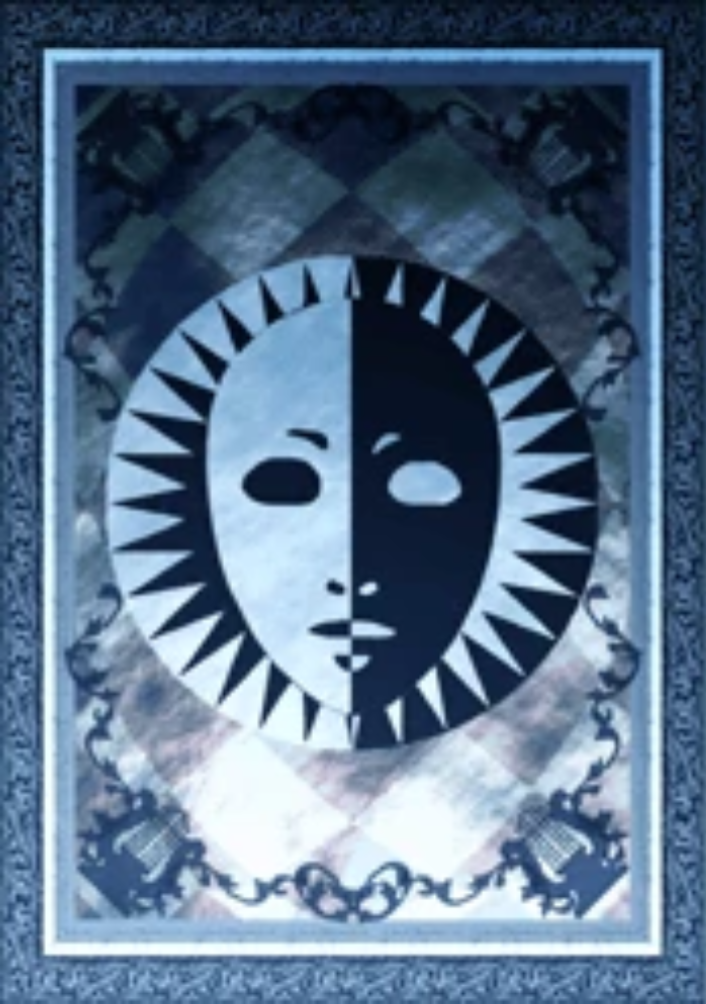
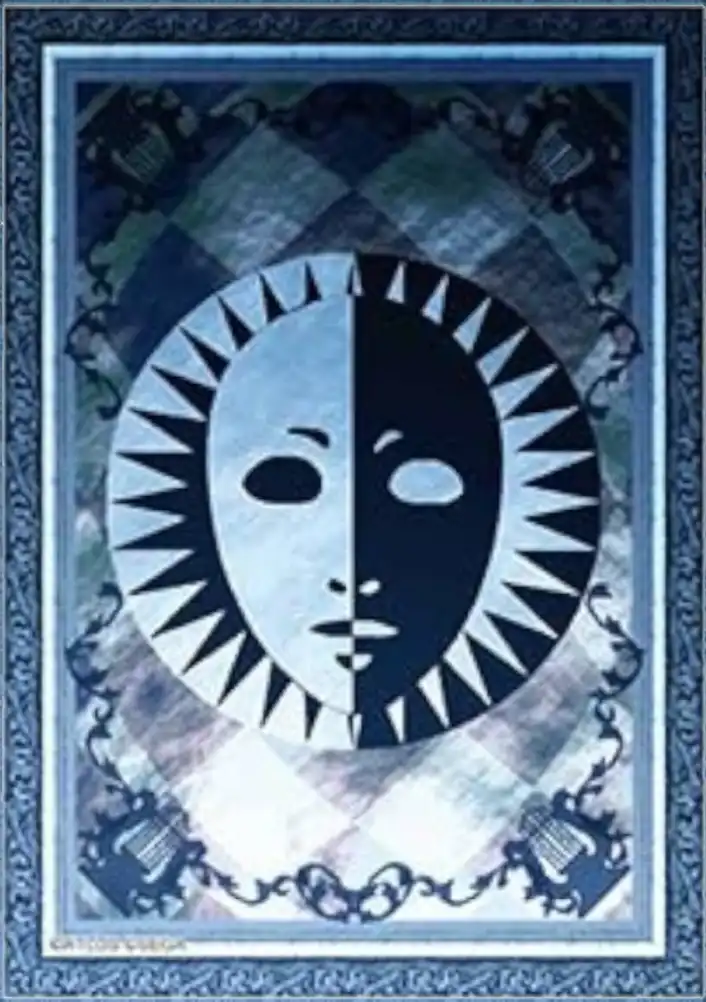
GENAI=NO | all assets added for the tarot cards

diff --git a/src/index.css b/src/index.css
@@ -780,7 +780,7 @@
 /* Tarot skills (home page) */
 :root {
   /* width / height of the tarot art, change this to match the real card images */
-  --tarot-aspect: 0.703187251;
+  --tarot-aspect: 0.7045908184;
 }
 .tarot-table {
   /* 3 cards always fit side by side, and short screens shrink them so the pinned stage never clips.

diff --git a/documents/Assets Required.md b/documents/Assets Required.md
@@ -5,7 +5,7 @@
 ## Tarot skills (put in `src/assets/home/tarot/`)
 
 All 23 need the same aspect ratio (set `--tarot-aspect` in `index.css` to match), around 700px wide, `.webp`.
-706x1004
+706x1002
 
 - X `back.webp` - the one back side shared by the deck and every face-down card.
 - X `arcana/<name>.webp` x22 - front of each major arcana, drawn at random on reveal, with the name and number already printed on the art. File names: `fool`, `magician`, `priestess`, `empress`, `emperor`, `hierophant`, `lovers`, `chariot`, `justice`, `hermit`, `fortune`, `strength`, `hanged`, `death`, `temperance`, `devil`, `tower`, `star`, `moon`, `sun`, `judgement`, `world`.
